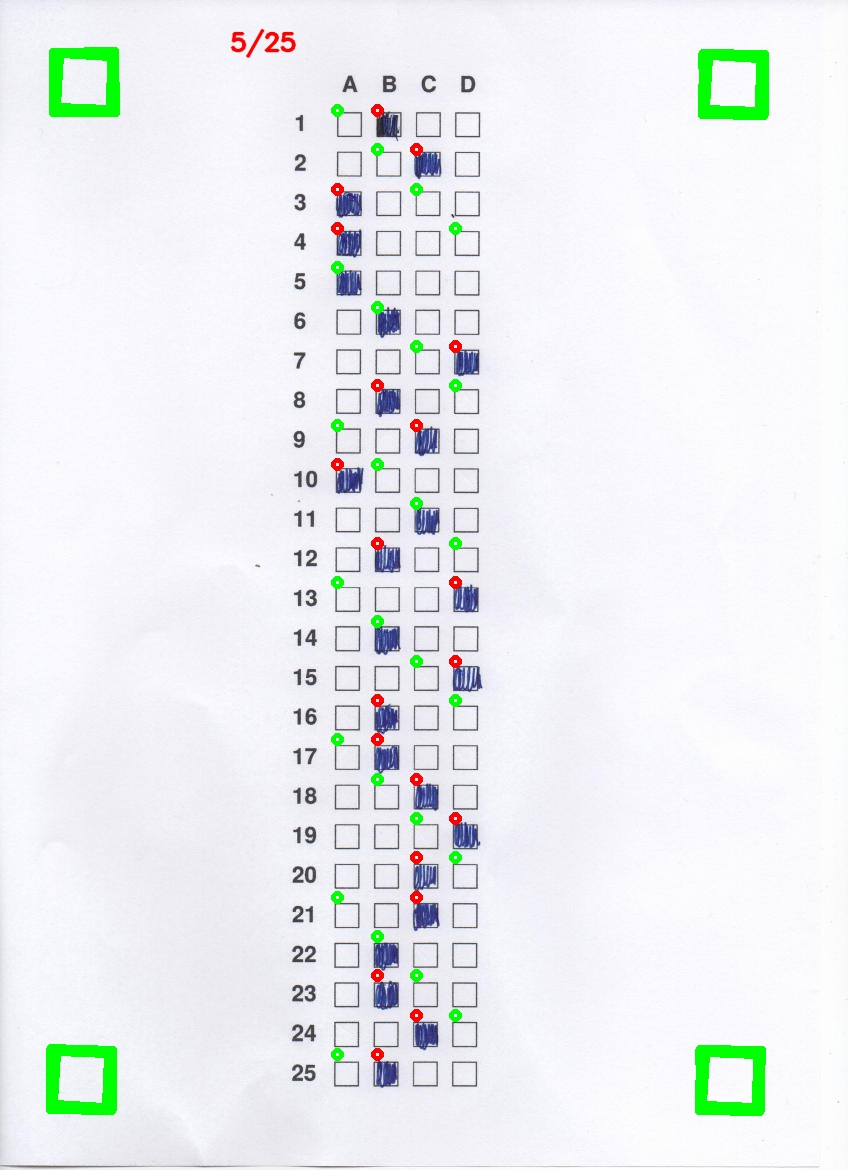
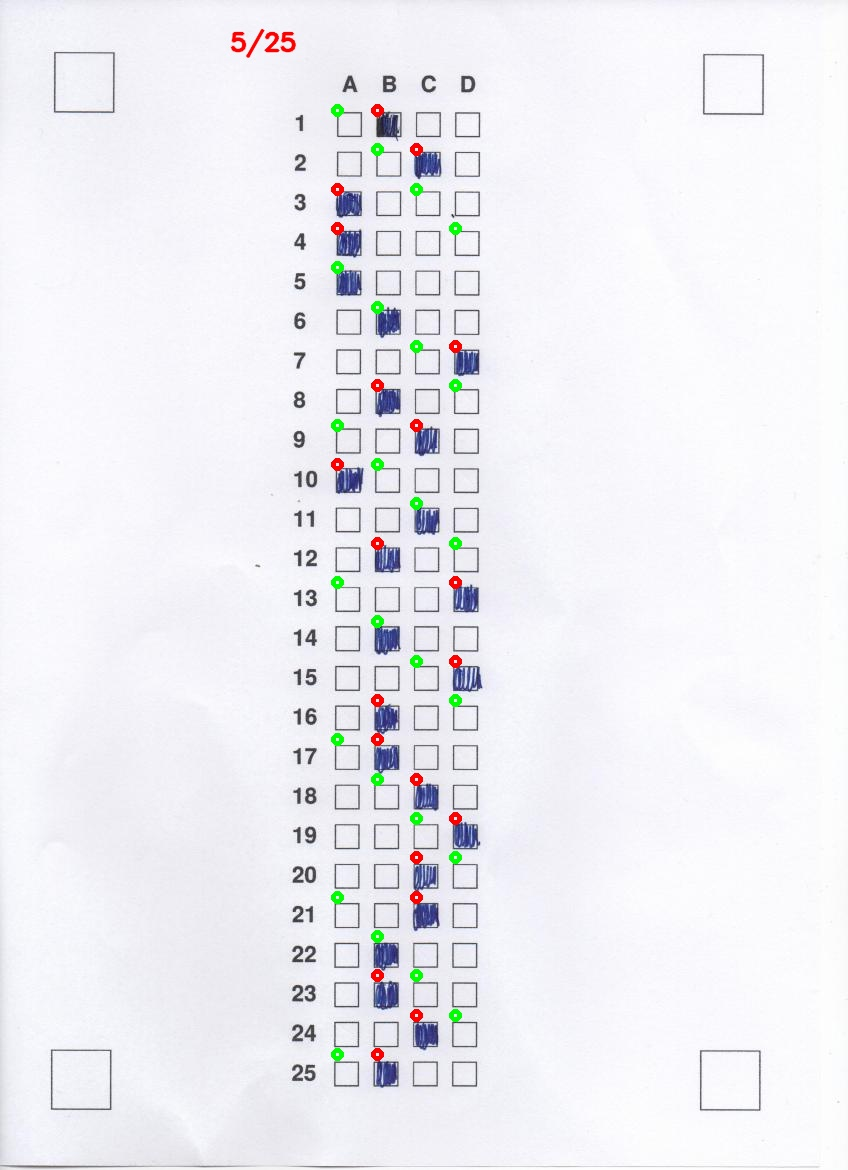
added

diff --git a/table/checker/detect_square.py b/table/checker/detect_square.py
@@ -16,7 +16,6 @@ def find_squares(read_from, save_to, x, y, answer_file):
     for i in range(len(line)):
         if ord(line[i]) != 10:
             good_answers.append(ord(line[i]) - 48)
-    print(good_answers)
     f.close()
     img = cv.imread(read_from, cv.IMREAD_GRAYSCALE)
     retval, img = cv.threshold(img, 180, 255, cv.THRESH_BINARY)
@@ -63,12 +62,9 @@ def find_squares(read_from, save_to, x, y, answer_file):
     top_left = sum(middles1[0]) / len(middles1[0]), sum(middles1[1]) / len(middles1[1])
     top_right = sum(middles2[0]) / len(middles2[0]), sum(middles2[1]) / len(middles2[1])
 
-    cv.drawContours(nowe, squares, -1, (0, 255, 0), 3)
+    # cv.drawContours(nowe, squares, -1, (0, 255, 0), 3)
     scale = (top_right[0] - top_left[0]) / 165.0
     answers = [-1 for i in range(len(y))]
-    print("len")
-    print(len(x))
-    print(len(y))
     for k in range(len(x)):
         i = x[k]
         for l in range(len(y)):
